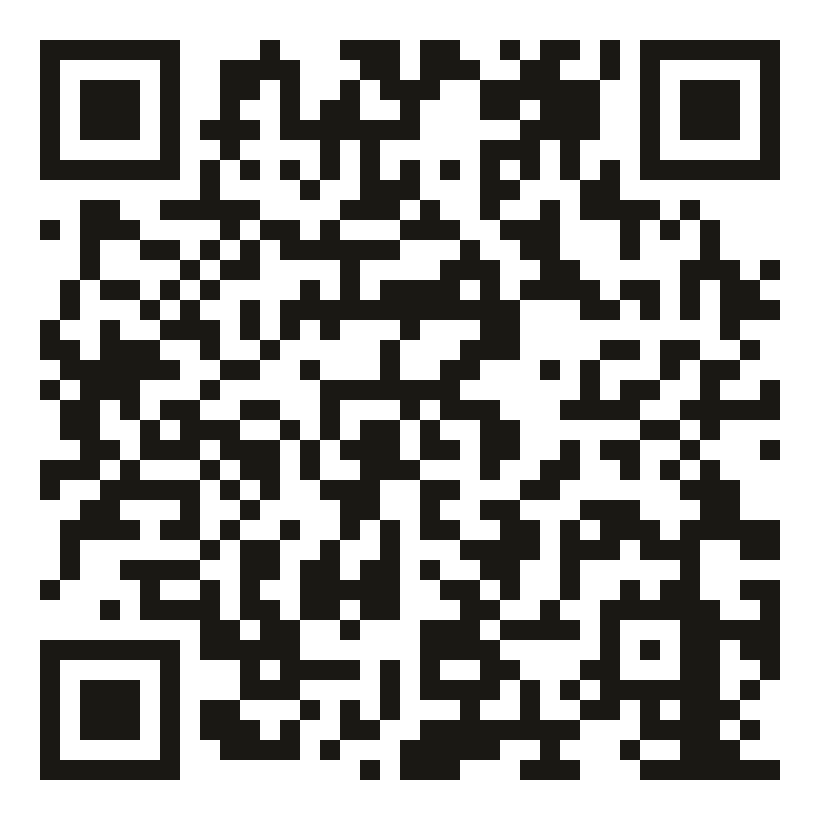
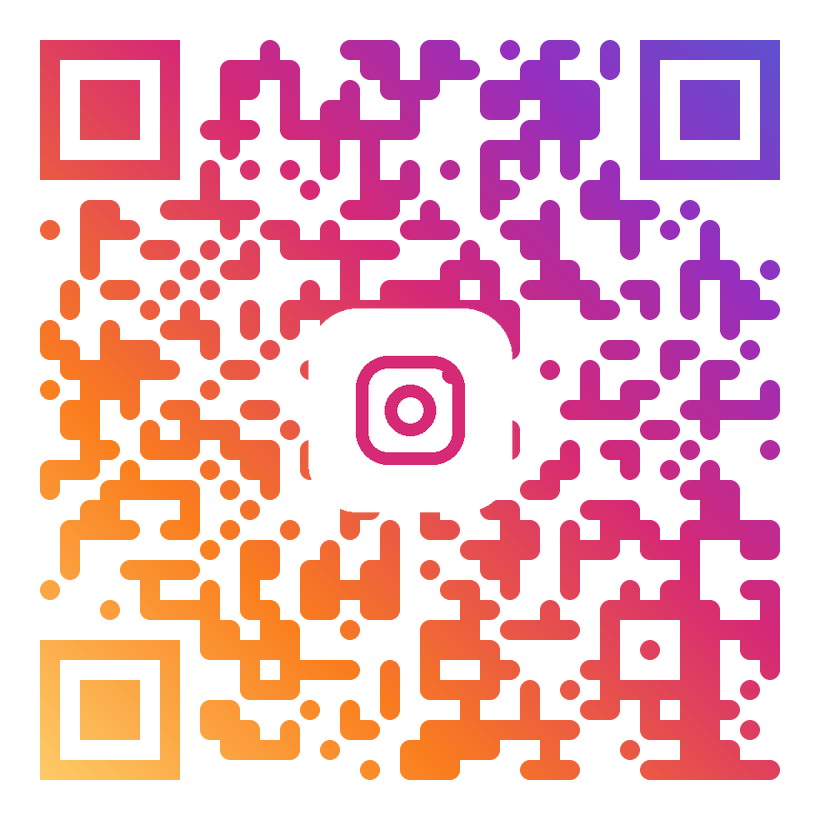
Instagramフォロー枠を公式QR風デザインに刷新（一目で識別可能に）

diff --git a/index.html b/index.html
@@ -615,30 +615,46 @@ section { padding: 100px 24px; }
 }
 .social-card::before {
   content: ''; position: absolute; top: 0; left: 0; right: 0; height: 5px;
-  background: linear-gradient(90deg, var(--accent), var(--accent2));
+  background: linear-gradient(90deg, #feda75, #fa7e1e 25%, #d62976 55%, #962fbf 78%, #4f5bd5);
 }
-.social-qr-wrap { flex-shrink: 0; width: 148px; text-align: center; }
+.social-qr-wrap { flex-shrink: 0; width: 156px; text-align: center; }
 .social-qr {
-  display: block; width: 148px; height: 148px; border-radius: 18px;
-  background: #fff; padding: 10px; border: 1.5px solid var(--border);
-  box-shadow: 0 10px 28px rgba(26,24,20,0.08);
+  display: block; width: 156px; height: 156px; border-radius: 20px;
+  background: #fff; padding: 9px;
+  background-image: linear-gradient(#fff, #fff), linear-gradient(45deg, #feda75, #fa7e1e, #d62976, #962fbf, #4f5bd5);
+  background-origin: border-box; background-clip: content-box, border-box;
+  border: 3px solid transparent;
+  box-shadow: 0 12px 30px rgba(214,41,118,0.18);
   transition: transform 0.25s, box-shadow 0.25s;
 }
-.social-qr img { width: 100%; height: 100%; display: block; }
-.social-qr:hover { transform: translateY(-3px); box-shadow: 0 16px 36px rgba(26,24,20,0.14); }
+.social-qr img { width: 100%; height: 100%; display: block; border-radius: 12px; }
+.social-qr:hover { transform: translateY(-3px); box-shadow: 0 18px 40px rgba(214,41,118,0.28); }
 .social-qr-hint {
   display: block; font-family: 'DM Mono', monospace; font-size: 0.64rem;
   color: var(--muted); margin-top: 10px; letter-spacing: 0.16em;
 }
 .social-body { flex: 1; min-width: 0; text-align: left; }
 .social-label {
-  display: inline-flex; align-items: center; gap: 8px;
-  font-family: 'DM Mono', monospace; font-size: 0.72rem; letter-spacing: 0.12em;
-  text-transform: uppercase; color: var(--accent2); margin-bottom: 12px;
+  display: inline-flex; align-items: center; gap: 9px;
+  font-family: 'DM Mono', monospace; font-size: 0.72rem; letter-spacing: 0.14em;
+  text-transform: uppercase;
+  background: linear-gradient(45deg, #fa7e1e, #d62976 55%, #962fbf);
+  -webkit-background-clip: text; background-clip: text;
+  -webkit-text-fill-color: transparent; color: transparent;
+  font-weight: 700; margin-bottom: 12px;
 }
 .social-label .ig {
-  width: 18px; height: 18px; border-radius: 5px; flex-shrink: 0;
-  background: linear-gradient(135deg, #feda75, #d62976 45%, #962fbf 75%, #4f5bd5);
+  width: 20px; height: 20px; border-radius: 6px; flex-shrink: 0;
+  background: linear-gradient(135deg, #feda75, #fa7e1e 30%, #d62976 60%, #962fbf 80%, #4f5bd5);
+  position: relative;
+}
+.social-label .ig::before {
+  content: ''; position: absolute; top: 50%; left: 50%; transform: translate(-50%,-50%);
+  width: 8px; height: 8px; border: 1.8px solid #fff; border-radius: 50%;
+}
+.social-label .ig::after {
+  content: ''; position: absolute; top: 3.5px; right: 3.5px;
+  width: 2.2px; height: 2.2px; background: #fff; border-radius: 50%;
 }
 .social-handle {
   font-family: 'Syne', sans-serif; font-weight: 800; font-size: 1.55rem;
@@ -647,13 +663,26 @@ section { padding: 100px 24px; }
 .social-sub { font-size: 0.92rem; color: var(--muted); line-height: 1.7; margin-bottom: 22px; }
 .social-btn {
   display: inline-flex; align-items: center; gap: 10px;
-  background: var(--ink); color: #fff;
-  font-size: 0.95rem; font-weight: 700; padding: 13px 26px;
+  background: linear-gradient(45deg, #fa7e1e, #d62976 50%, #962fbf);
+  color: #fff;
+  font-size: 0.95rem; font-weight: 700; padding: 13px 28px;
   border-radius: 99px; text-decoration: none;
-  box-shadow: 0 4px 20px rgba(26,24,20,0.18);
+  box-shadow: 0 6px 22px rgba(214,41,118,0.30);
   transition: transform 0.2s, box-shadow 0.2s;
 }
-.social-btn:hover { transform: translateY(-2px); box-shadow: 0 8px 30px rgba(26,24,20,0.25); }
+.social-btn:hover { transform: translateY(-2px); box-shadow: 0 10px 32px rgba(214,41,118,0.42); }
+.social-btn .ig-ico {
+  width: 19px; height: 19px; flex-shrink: 0;
+  border: 2.2px solid #fff; border-radius: 6px; position: relative;
+}
+.social-btn .ig-ico::before {
+  content: ''; position: absolute; top: 50%; left: 50%; transform: translate(-50%,-50%);
+  width: 8px; height: 8px; border: 2.2px solid #fff; border-radius: 50%;
+}
+.social-btn .ig-ico::after {
+  content: ''; position: absolute; top: 2px; right: 2px;
+  width: 2.6px; height: 2.6px; background: #fff; border-radius: 50%;
+}
 .social-btn .arrow { transition: transform 0.2s; }
 .social-btn:hover .arrow { transform: translateX(4px); }
 
@@ -900,10 +929,10 @@ footer {
           <span class="zh">在Instagram发布最新资讯、新功能和实用小贴士。关注我们，让找空教室更轻松。</span>
         </p>
         <a class="social-btn" href="https://www.instagram.com/roomradar_nust/" target="_blank" rel="noopener">
+          <span class="ig-ico"></span>
           <span class="ja">フォローする</span>
           <span class="en">Follow us</span>
           <span class="zh">关注我们</span>
-          <span class="arrow">→</span>
         </a>
       </div>
     </div>
